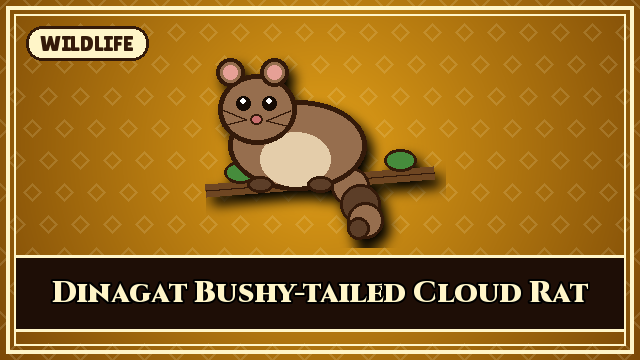
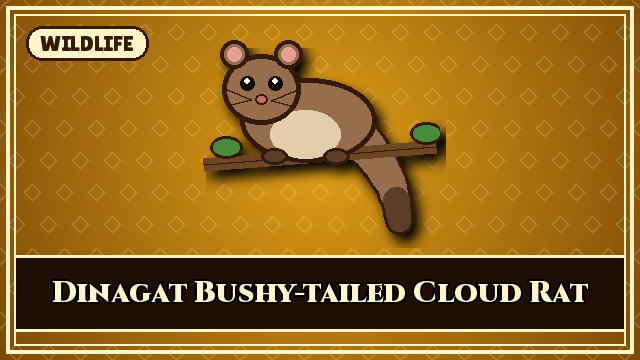
Give the Dinagat cloud rat card a long bushy tail
Claude-Session: https://claude.ai/code/session_01TbSoKW92dTx8bsqtTukeba

Changed region(s): [[0.3125, 0.0917, 0.7188, 0.7028]]

diff --git a/tools/art/make_culture_cards.py b/tools/art/make_culture_cards.py
@@ -177,31 +177,41 @@ def icon_music(d):
 
 
 def icon_wildlife(d):
-    # Dinagat bushy-tailed cloud rat sitting on a branch, its bushy tail hanging down.
+    # Dinagat bushy-tailed cloud rat sitting on a branch, its long bushy tail hanging down.
     fur, belly, dark = (150, 110, 78), (228, 205, 170), (92, 62, 40)
-    d.line([6, 150, 234, 132], fill=(110, 70, 34), width=14)           # branch
-    d.line([6, 150, 234, 132], fill=INK, width=2)
-    for x, y in ((40, 147), (200, 135)):
+    # Long bushy tail first (behind the body): puffs curving down, thick then tapering.
+    for i in range(14):
+        t = i / 13
+        x = 158 + 40 * t + 10 * math.sin(t * 3.0)
+        y = 96 + 84 * t
+        r = 22 - 8 * t
+        d.ellipse([x - r, y - r, x + r, y + r], fill=dark if t > 0.72 else fur, outline=INK, width=3)
+    for i in range(14):                                                     # fur tufts on the tail
+        t = i / 13
+        x = 158 + 40 * t + 10 * math.sin(t * 3.0)
+        y = 96 + 84 * t
+        r = 22 - 8 * t
+        d.ellipse([x - r + 3, y - r + 3, x + r - 3, y + r - 3], fill=dark if t > 0.72 else fur)
+    d.line([4, 124, 236, 106], fill=(110, 70, 34), width=14)              # branch
+    d.line([4, 124, 236, 106], fill=INK, width=2)
+    for x, y in ((26, 122), (226, 108)):
         d.ellipse([x - 16, y - 26, x + 16, y - 4], fill=(70, 140, 60), outline=INK, width=3)  # leaves
-    # Bushy tail: overlapping puffs curling down below the branch.
-    for i, (x, y, r) in enumerate(((150, 146, 19), (160, 164, 20), (165, 180, 18), (158, 188, 11))):
-        d.ellipse([x - r, y - r, x + r, y + r], fill=fur if i % 2 == 0 else dark, outline=INK, width=3)
-    d.ellipse([28, 60, 166, 150], fill=fur, outline=INK, width=5)         # body
-    d.ellipse([60, 92, 130, 146], fill=belly)                              # belly
-    d.ellipse([18, 34, 96, 104], fill=fur, outline=INK, width=5)           # head
-    for x in (30, 74):                                                      # round ears
-        d.ellipse([x - 14, 18, x + 14, 46], fill=fur, outline=INK, width=4)
-        d.ellipse([x - 7, 25, x + 7, 39], fill=(230, 160, 150))
-    d.ellipse([36, 56, 50, 70], fill=(20, 10, 4))                           # eyes
-    d.ellipse([62, 56, 76, 70], fill=(20, 10, 4))
-    d.ellipse([40, 58, 45, 63], fill=(255, 255, 255))
-    d.ellipse([66, 58, 71, 63], fill=(255, 255, 255))
-    d.ellipse([50, 74, 62, 84], fill=(200, 110, 110), outline=INK, width=2)  # nose
+    d.ellipse([40, 38, 176, 122], fill=fur, outline=INK, width=5)         # body
+    d.ellipse([70, 70, 140, 118], fill=belly)                              # belly
+    d.ellipse([22, 14, 100, 84], fill=fur, outline=INK, width=5)           # head
+    for x in (34, 88):                                                      # round ears
+        d.ellipse([x - 14, 0, x + 14, 28], fill=fur, outline=INK, width=4)
+        d.ellipse([x - 7, 7, x + 7, 21], fill=(230, 160, 150))
+    d.ellipse([40, 36, 54, 50], fill=(20, 10, 4))                           # eyes
+    d.ellipse([68, 36, 82, 50], fill=(20, 10, 4))
+    d.ellipse([44, 38, 49, 43], fill=(255, 255, 255))
+    d.ellipse([72, 38, 77, 43], fill=(255, 255, 255))
+    d.ellipse([55, 54, 67, 64], fill=(200, 110, 110), outline=INK, width=2)  # nose
     for side in (-1, 1):                                                    # whiskers
         for dy in (-4, 4):
-            d.line([56 + side * 10, 80, 56 + side * 34, 78 + dy * 2], fill=INK, width=2)
-    for x in (60, 120):                                                     # paws on the branch
-        d.ellipse([x - 13, 136, x + 13, 152], fill=dark, outline=INK, width=3)
+            d.line([61 + side * 10, 60, 61 + side * 34, 58 + dy * 2], fill=INK, width=2)
+    for x in (74, 136):                                                     # paws on the branch
+        d.ellipse([x - 13, 108, x + 13, 124], fill=dark, outline=INK, width=3)
 
 
 ICONS = {"landmark": icon_landmark, "heritage": icon_heritage, "festival": icon_festival,
